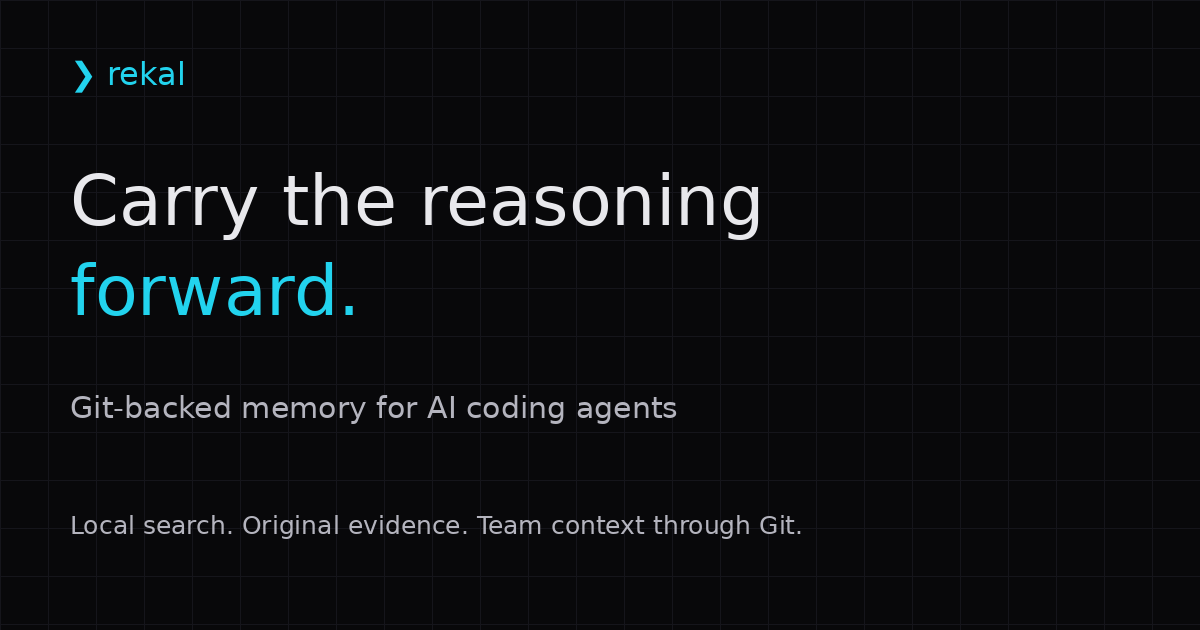
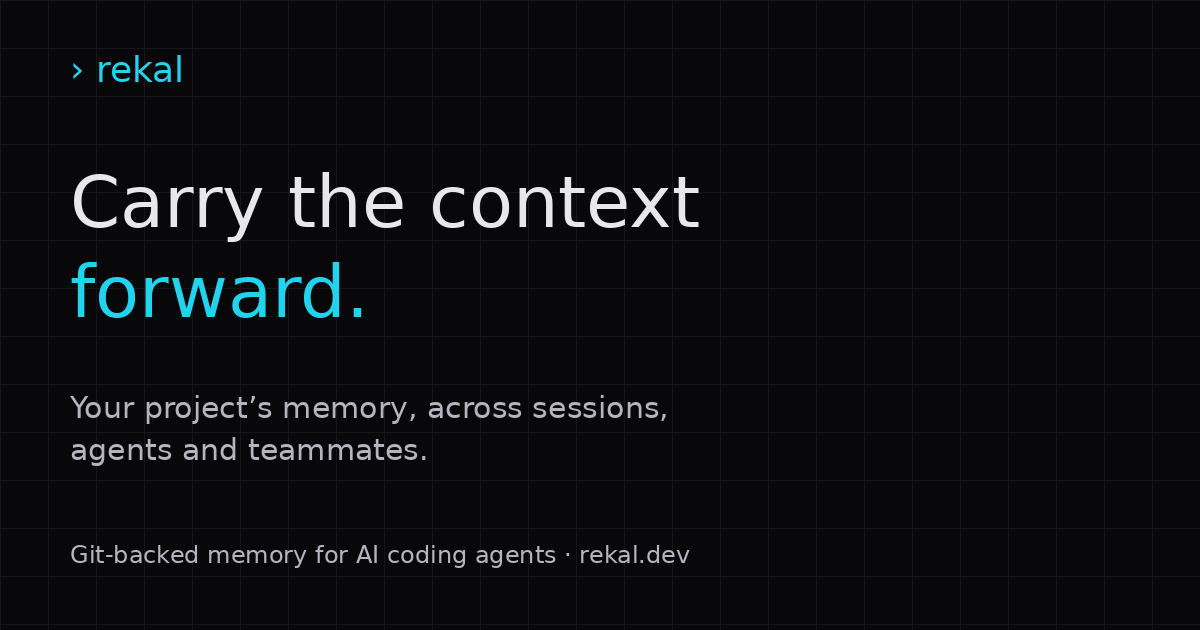
docs: carry the context forward and publish verified v2.0.1 guidance

diff --git a/src/app/page.tsx b/src/app/page.tsx
@@ -58,17 +58,17 @@ export default function Home() {
           <div>
           <p className="eyebrow mb-6">Git-backed memory for AI coding agents</p>
           <h1 className="text-4xl sm:text-6xl lg:text-6xl font-bold tracking-tight leading-[1.06] max-w-4xl">
-            Carry the reasoning
+            Carry the context
             <br />
             <span className="gradient-text">forward.</span>
           </h1>
           <p className="text-xl text-muted leading-relaxed max-w-2xl mt-7">
-            Keep the why behind your code—across sessions, agents and
-            teammates. Find past conversations and project notes, then read the
-            original reasoning before changing the design.
+            Your project’s memory, across sessions, agents and teammates.
+            Find past conversations, decisions and project notes, with the
+            original sources ready to read.
           </p>
           <p className="mt-5 text-foreground">
-            Capture at commit time. Search locally. Share through Git.
+            Captured with commits. Searchable locally. Shared through Git.
           </p>
           <div className="flex flex-wrap gap-3 mt-8">
             <a href="#install" className="btn btn-primary">
@@ -298,9 +298,9 @@ export default function Home() {
             </code>
           </pre>
           <p className="section-copy">
-            Rekal 2.0.0 is published for macOS ARM64 and Linux AMD64/ARM64.
-            The Linux AMD64 archive requires GLIBC 2.43; it will not start on
-            older systems. See the upgrade guide for source-build instructions.
+            Rekal 2.0.1 is available for macOS ARM64 and Linux AMD64/ARM64.
+            Linux targets Ubuntu 24.04 / GLIBC 2.39 or newer with standard C++
+            and OpenMP runtimes. Older systems need a source build.
           </p>
           <p className="section-copy">
             Upgrading? Follow the migration guide and upgrade every writer of

diff --git a/src/components/TerminalDemo.tsx b/src/components/TerminalDemo.tsx
@@ -27,7 +27,7 @@ export default function TerminalDemo() {
       </div>
       <div className="flex items-center justify-between gap-3 px-5 pt-4 sm:px-8">
         <span className="text-xs font-mono text-muted">PROJECT HANDOFF · {active + 1} / 3</span>
-        <button type="button" className="min-h-11 px-3 text-sm text-cyan-300 rounded-md focus-visible:outline-2 focus-visible:outline-cyan-400" onClick={() => { if (!playing) setActive(0); setPlaying(!playing); }} aria-label={playing ? "Pause walkthrough" : "Play walkthrough"}>{playing ? "Ⅱ Pause" : "▶ Play story"}</button>
+        <button type="button" className="min-h-11 px-3 text-sm text-cyan-300 rounded-md focus-visible:outline-2 focus-visible:outline-cyan-400" onClick={() => { if (!playing) setActive(0); setPlaying(!playing); }} aria-label={playing ? "Pause walkthrough" : "Play walkthrough"}>{playing ? "Ⅱ Pause" : "Play story →"}</button>
       </div>
       <div key={active} className="demo-frame p-5 sm:p-8 sm:min-h-80" aria-live={playing ? "off" : "polite"} aria-atomic="true">
         <p className="text-xs text-muted font-mono mb-5">{step.actor}</p>

diff --git a/src/components/InstallCommand.tsx b/src/components/InstallCommand.tsx
@@ -2,7 +2,7 @@
 
 import { useState } from "react";
 
-const INSTALL_CMD = "curl -fsSL https://rekal.dev/install.sh | REKAL_VERSION=v2.0.0 bash";
+const INSTALL_CMD = "curl -fsSL https://rekal.dev/install.sh | REKAL_VERSION=v2.0.1 bash";
 
 export default function InstallCommand() {
   const [copied, setCopied] = useState(false);
@@ -27,7 +27,7 @@ export default function InstallCommand() {
     >
       <span className="text-accent select-none">$</span>
       <span className="text-foreground break-all">
-        curl -fsSL <span className="text-muted">https://rekal.dev/install.sh</span> | REKAL_VERSION=v2.0.0 bash
+        curl -fsSL <span className="text-muted">https://rekal.dev/install.sh</span> | REKAL_VERSION=v2.0.1 bash
       </span>
       <span className="ml-auto flex items-center gap-1.5 text-xs text-faint group-hover:text-accent transition-colors shrink-0">
         {copied ? (

diff --git a/scripts/render-social.py b/scripts/render-social.py
@@ -1,0 +1,17 @@
+"""Generate the social card from the current positioning, without external assets."""
+from pathlib import Path
+from PIL import Image, ImageDraw, ImageFont
+image = Image.new('RGB', (1200, 630), '#08080a')
+draw = ImageDraw.Draw(image)
+for x in range(0, 1200, 48): draw.line((x, 0, x, 630), fill='#16161a')
+for y in range(0, 630, 48): draw.line((0, y, 1200, y), fill='#16161a')
+font = '/usr/share/fonts/truetype/dejavu/DejaVuSans.ttf'
+for text, xy, size, fill in [
+ ('› rekal', (70, 48), 36, '#22d3ee'),
+ ('Carry the context', (70, 160), 72, '#e8e8ec'),
+ ('forward.', (70, 250), 72, '#22d3ee'),
+ ('Your project’s memory, across sessions,', (70, 390), 30, '#b5b5c0'),
+ ('agents and teammates.', (70, 432), 30, '#b5b5c0'),
+ ('Git-backed memory for AI coding agents · rekal.dev', (70, 540), 24, '#b5b5c0'),
+]: draw.text(xy, text, font=ImageFont.truetype(font, size), fill=fill)
+image.save(Path(__file__).resolve().parents[1] / 'public' / 'og-v2.png')

diff --git a/docs/LAUNCH.md b/docs/LAUNCH.md
@@ -2,13 +2,11 @@
 
 ## Release status — 14 November 2026
 
-v2.0.0 is published at commit `8b3dfe74793c860abf17a7e06e5903b7abf7bf2a`.
-Release run 43550133449 succeeded; tag ancestry includes PRs #88, #89 and #90.
-All three platform archives and checksums.txt are present. The downloaded Linux
-AMD64 checksum matches, but execution on this environment fails because the
-archive requires GLIBC 2.43. The website discloses this compatibility limitation;
-full runtime verification remains blocked. Do not describe the release as fully
-smoke-tested or disable its watch until this is resolved.
+v2.0.1 is published at commit `986450cbf1ac428066131d229ceafd1f04200906`.
+Release run 43554344827 passed validation, all three builds, both Linux baseline
+container contract suites and archive checksums. Linux builds use Ubuntu 24.04
+and reject GLIBC symbol requirements above 2.39. The older v2.0.0 AMD64 binary
+required GLIBC 2.43; its immutable assets remain unchanged.
 
 The website's main branch deploys automatically through GitHub Pages.
 
